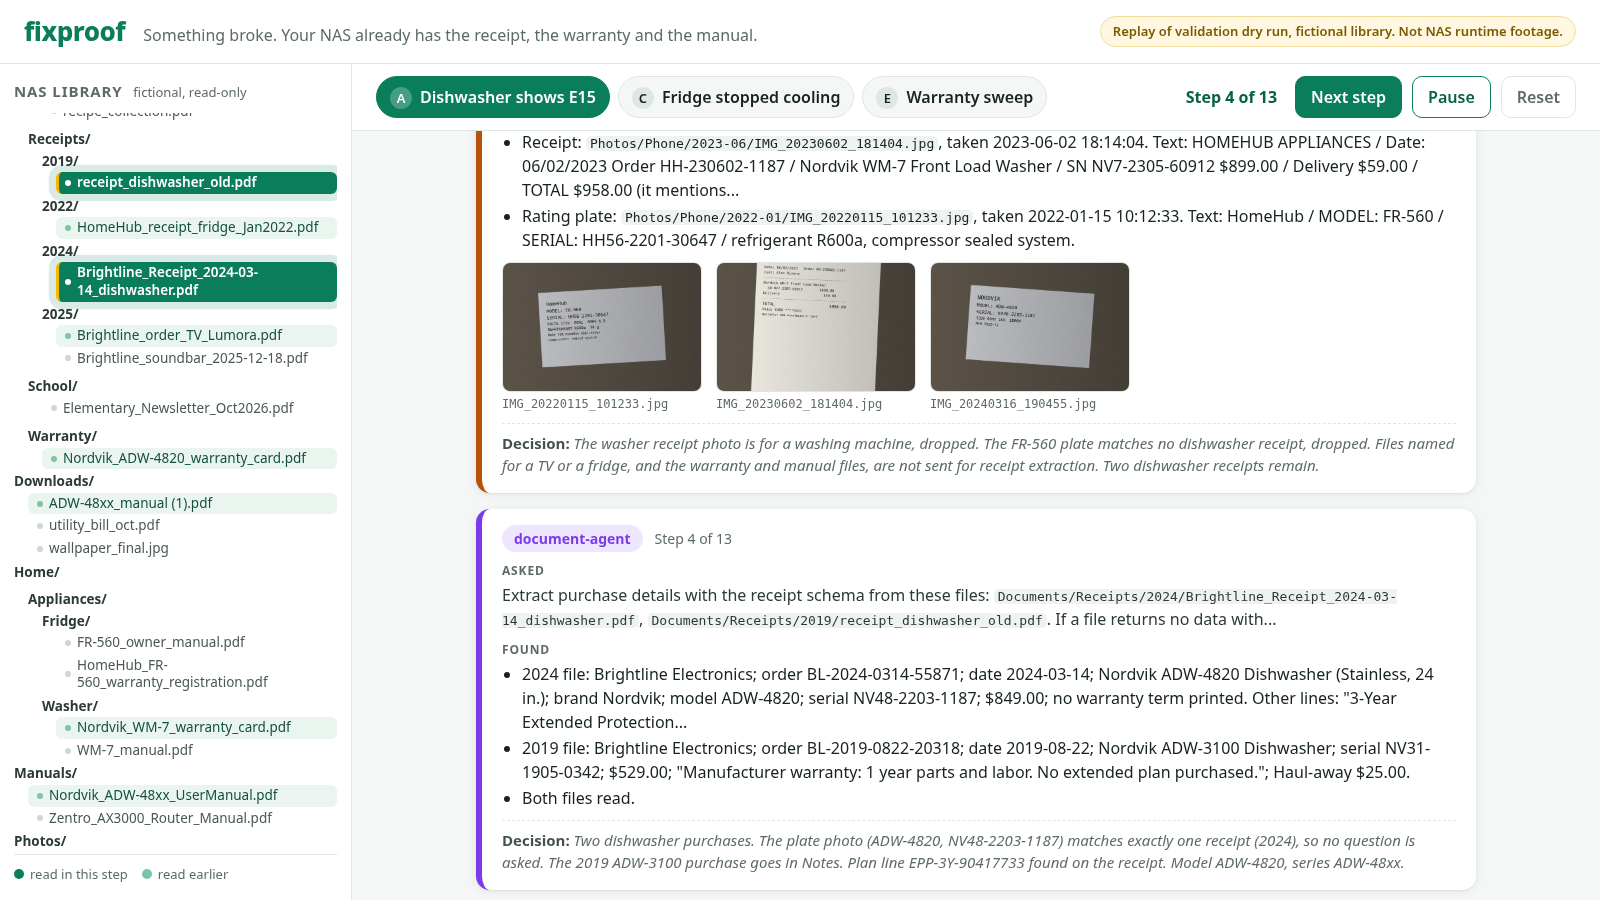
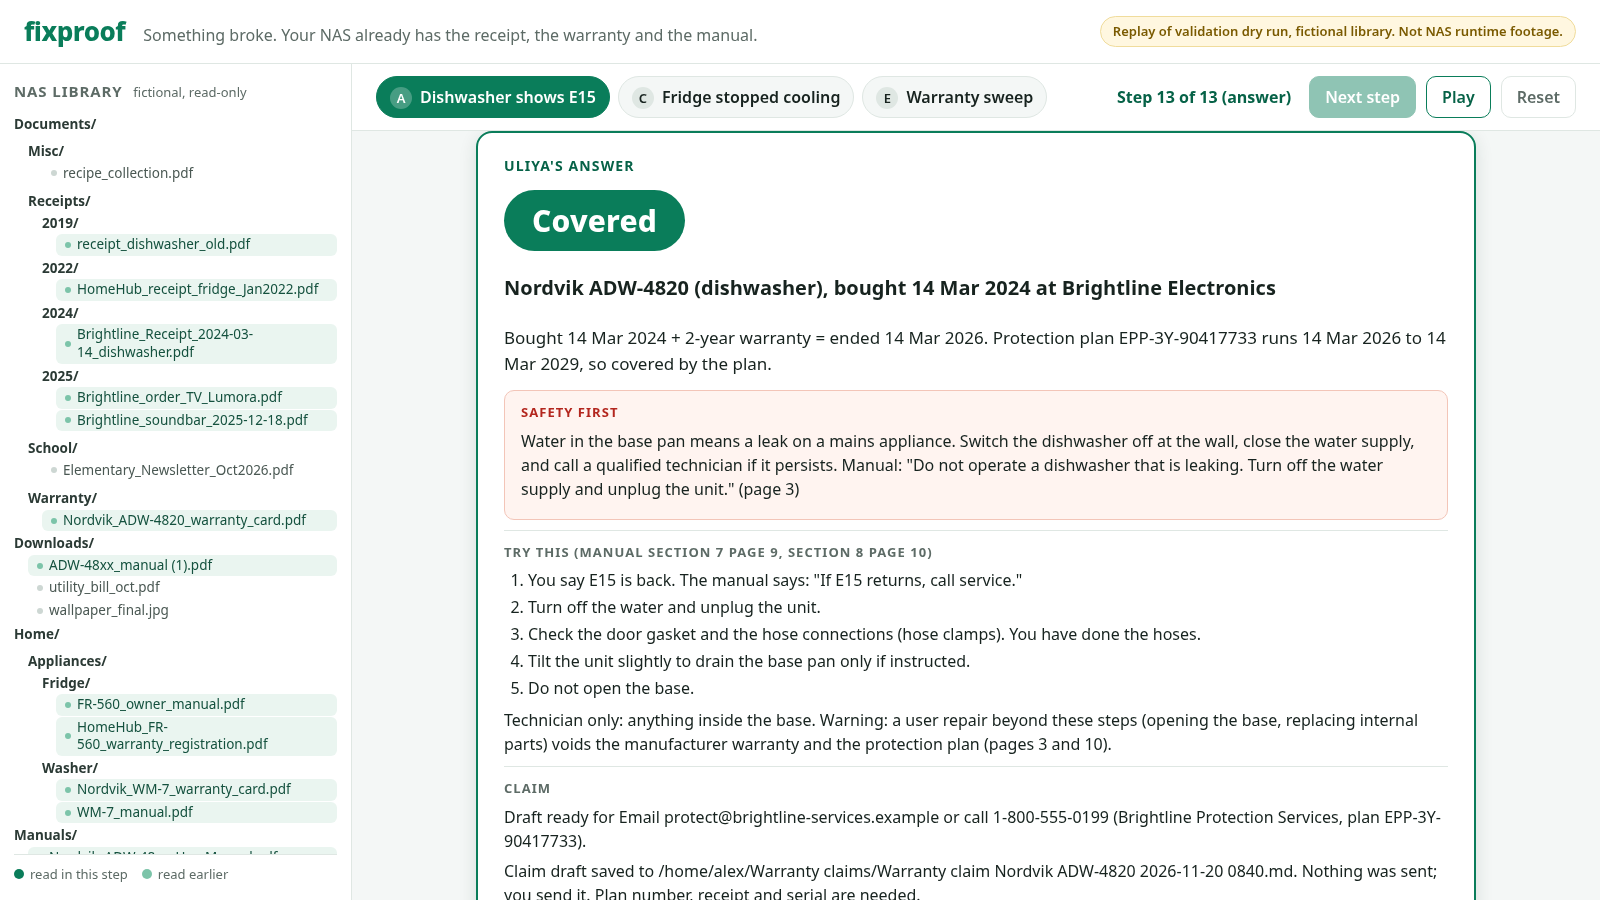
use answer screen as hero, drop stale version refs, clarify kit check

Changed region(s): [[0.2812, 0.0622, 0.9375, 1.0], [0.0, 0.1244, 0.2188, 0.9333]]

diff --git a/README.md b/README.md
@@ -2,7 +2,7 @@
 
 Something broke. Your NAS already has the receipt, the warranty and the manual. fixproof is a Skill for Uliya, the assistant on UGREEN AI NAS, that turns those files into a coverage answer, the manual's fix and a ready claim.
 
-![fixproof walkthrough replaying the dishwasher E15 scenario](docs/walkthrough.png)
+![fixproof answer for the dishwasher E15 scenario: Covered by the protection plan, safety first, manual steps, claim](docs/walkthrough.png)
 
 Demo video: {{video_url}}
 
@@ -24,7 +24,7 @@ A second mode answers "Which warranties run out in the next three months?" and t
 - **Without a NAS (30 seconds):** open `walkthrough/index.html` in a browser after one build step. It replays three recorded validation runs step by step: which agent was asked what, what it found, and which files in the library it read.
 
       python3 walkthrough/build.py
-      python3 -m http.server 8000 -d walkthrough    # then open http://127.0.0.1:8000/
+      python3 -m http.server 8000 -d walkthrough    # open http://127.0.0.1:8000/
 
   Scenarios: A (dishwasher E15, covered by the plan, claim saved), C (fridge serial off by one digit, Unclear), E (warranty sweep).
 
@@ -47,7 +47,7 @@ The skill is plain Markdown: `fixproof/SKILL.md` holds the steps and the exact i
 
 ## Validation
 
-There was no NAS to run on during Round 1, so the skill was tested as a tabletop run against `testdata/home-library/`, a fictional 28-file family library with deliberate traps: a decoy 2019 dishwasher receipt, a washer receipt that exists only as a phone photo, a duplicate manual in Downloads, a TV with no manual, and a fridge whose registered serial differs from its rating plate by one digit. Each expert was played from the real files (pdftotext, the images and their EXIF dates, file-name matching, sha256sum). The final run passed 8 of 8 scenarios with 65 delegations. Results and transcripts are in [`validation/RESULTS.md`](validation/RESULTS.md); the expected answers are in [`testdata/README.md`](testdata/README.md).
+No NAS was available while building it, so the skill was tested as a tabletop run against `testdata/home-library/`, a fictional 28-file family library with deliberate traps: a decoy 2019 dishwasher receipt, a washer receipt that exists only as a phone photo, a duplicate manual in Downloads, a TV with no manual, and a fridge whose registered serial differs from its rating plate by one digit. Each expert was played from the real files (pdftotext, the images and their EXIF dates, file-name matching, sha256sum). The final run passed 8 of 8 scenarios with 65 delegations. Results and transcripts are in [`validation/RESULTS.md`](validation/RESULTS.md); the expected answers are in [`testdata/README.md`](testdata/README.md).
 
 ## Built with
 
@@ -75,7 +75,7 @@ Check and package:
     python3 tools/check_skill.py fixproof
     python3 tools/package_skill.py fixproof dist/fixproof.zip
 
-Official check with the UGREEN Skill Developer Package (uliya-skill-kit 0.7.3, Node 18+) unzipped next to this repo. It reports `"status": "static-pass"` with 0 errors and 0 warnings:
+Optional official check with the UGREEN Skill Developer Package (uliya-skill-kit 0.7.3, Node 18+), downloaded from the hackathon resources page and unzipped next to this repo. It reports `"status": "static-pass"` with 0 errors and 0 warnings:
 
     node ../uliya-skill-kit/scripts/check-skill.mjs fixproof
 

diff --git a/validation/dryrun-A.md b/validation/dryrun-A.md
@@ -37,7 +37,7 @@ Parent: ADW-4820 plate matches only the 2024 receipt. Settled; 2019 to Notes. Se
 **5. file-agent**
 > Read only; do not change any file. Find files whose names contain any of: warranty, guarantee, garantie, protection, plan, care, extended, registration, certificate, terms, conditions, Nordvik, ADW-4820, ADW-48xx, Brightline. Search folders whose names contain Warranty, Receipts, Scans, Documents, Home or Appliances first, then the rest of the home folder and the shared folders this user can access. File types: documents and images. Return full path, file name, size and modified date for each, up to 50. If there are no results, say zero matches.
 
-Result: 10, same as v6 (ADW-4820 card, EPP terms scan, Lumora TV warranty, WM-7 card, FR-560 registration, three Brightline receipts, two ADW-48xx manuals). A "terms" name and a Scans result exist, so no extra Scans listing.
+Result: 10 (ADW-4820 card, EPP terms scan, Lumora TV warranty, WM-7 card, FR-560 registration, three Brightline receipts, two ADW-48xx manuals). A "terms" name and a Scans result exist, so no extra Scans listing.
 
 **6. document-agent**
 > Read only; do not change any file. Read the contents of these files: Documents/Warranty/Nordvik_ADW-4820_warranty_card.pdf, Scans/2024/Brightline_EPP_terms_scan.pdf. List only the files that are a warranty, guarantee, protection plan or warranty registration for Nordvik ADW-4820 or the series ADW-48xx, or a plan bought with order BL-2024-0314-55871. For each, quote the line that shows it. If none match, say zero matches.
@@ -127,4 +127,4 @@ Notes: A 2019 Nordvik ADW-3100 (receipt 22 Aug 2019) also exists; the plate phot
 Status `completed`, saved. Delegations: 13 (photo 2, file 4, document 6, knowledge 1).
 
 ## Check
-Expected outcome met in every item. PASS. Same as v6.
+Expected outcome met in every item. PASS.

diff --git a/walkthrough/README.md b/walkthrough/README.md
@@ -7,6 +7,7 @@ Scenarios: A (dishwasher E15, covered, claim saved), C (fridge, Unclear serial),
 Run it:
 
     python3 build.py && python3 -m http.server 8000
-    open http://127.0.0.1:8000/   (or open index.html directly, it works from file://)
+
+Then open http://127.0.0.1:8000/ in a browser, or open index.html directly (it works from file://).
 
 `?s=A&step=all` renders a whole scenario at once. `python3 test_build.py` checks the generated data. `python3 e2e_check.py OUT_DIR` clicks through all three scenarios in headless Chromium and saves screenshots to `OUT_DIR`.

diff --git a/validation/dryrun-D.md b/validation/dryrun-D.md
@@ -71,4 +71,4 @@ Notes: The claim needs a photo of the rear label showing the serial; there is no
 Status `completed`, not saved. Delegations: 9 (photo 2, file 3, document 4).
 
 ## Check
-Covered to 2026-12-01, 11 days, panel/board/PSU; no manual, universal safety only; draft to care@lumora-tv.example; declined, completed, not saved. PASS. Same as v6.
+Covered to 2026-12-01, 11 days, panel/board/PSU; no manual, universal safety only; draft to care@lumora-tv.example; declined, completed, not saved. PASS.

diff --git a/validation/dryrun-H.md b/validation/dryrun-H.md
@@ -45,4 +45,4 @@ Notes: A 2019 Nordvik ADW-3100 (receipt 22 Aug 2019) also exists; the plate phot
 Status `completed`. Delegations: 7 (photo 1, file 2, document 4).
 
 ## Check
-ADW-4820 by plate; base ended 14 Mar 2026, plan to 14 Mar 2029, motor to 14 Mar 2034; no checklist, no draft, manual offered in one line; completed. PASS. Same as v6.
+ADW-4820 by plate; base ended 14 Mar 2026, plan to 14 Mar 2029, motor to 14 Mar 2034; no checklist, no draft, manual offered in one line; completed. PASS.

diff --git a/validation/dryrun-C.md b/validation/dryrun-C.md
@@ -86,4 +86,4 @@ Notes: Serial mismatch: plate HH56-2201-30647 vs receipt and registration HH56-2
 Status `waiting_approval`. Delegations: 11 (photo 2, file 3, document 6).
 
 ## Check
-Unclear, general ended 2023-01-10, partly covered to 2027-01-10 once serial confirmed, not-cooling steps, draft with plate value marked. PASS. Same as v6.
+Unclear, general ended 2023-01-10, partly covered to 2027-01-10 once serial confirmed, not-cooling steps, draft with plate value marked. PASS.

diff --git a/validation/dryrun-B.md b/validation/dryrun-B.md
@@ -79,4 +79,4 @@ Notes: The receipt exists only as a phone photo. 06/02/2023 is read as 2 June 20
 Status `completed`. Delegations: 9 (photo 2, file 3, document 4).
 
 ## Check
-Not covered, 2 June 2023 reading, ended 2025-06-02, F21 drain steps, no draft, completed. PASS. Same as v6.
+Not covered, 2 June 2023 reading, ended 2025-06-02, F21 drain steps, no draft, completed. PASS.

diff --git a/validation/dryrun-F.md b/validation/dryrun-F.md
@@ -28,4 +28,4 @@ I couldn't find a receipt for your coffee machine on the NAS. Do you know roughl
 Status `waiting_user`. Delegations: 2 (file 1, photo 1). No dishwasher, fridge or TV document used.
 
 ## Check
-Nothing found, asks when bought, waiting_user, no dishwasher documents. PASS. Same as v6.
+Nothing found, asks when bought, waiting_user, no dishwasher documents. PASS.
